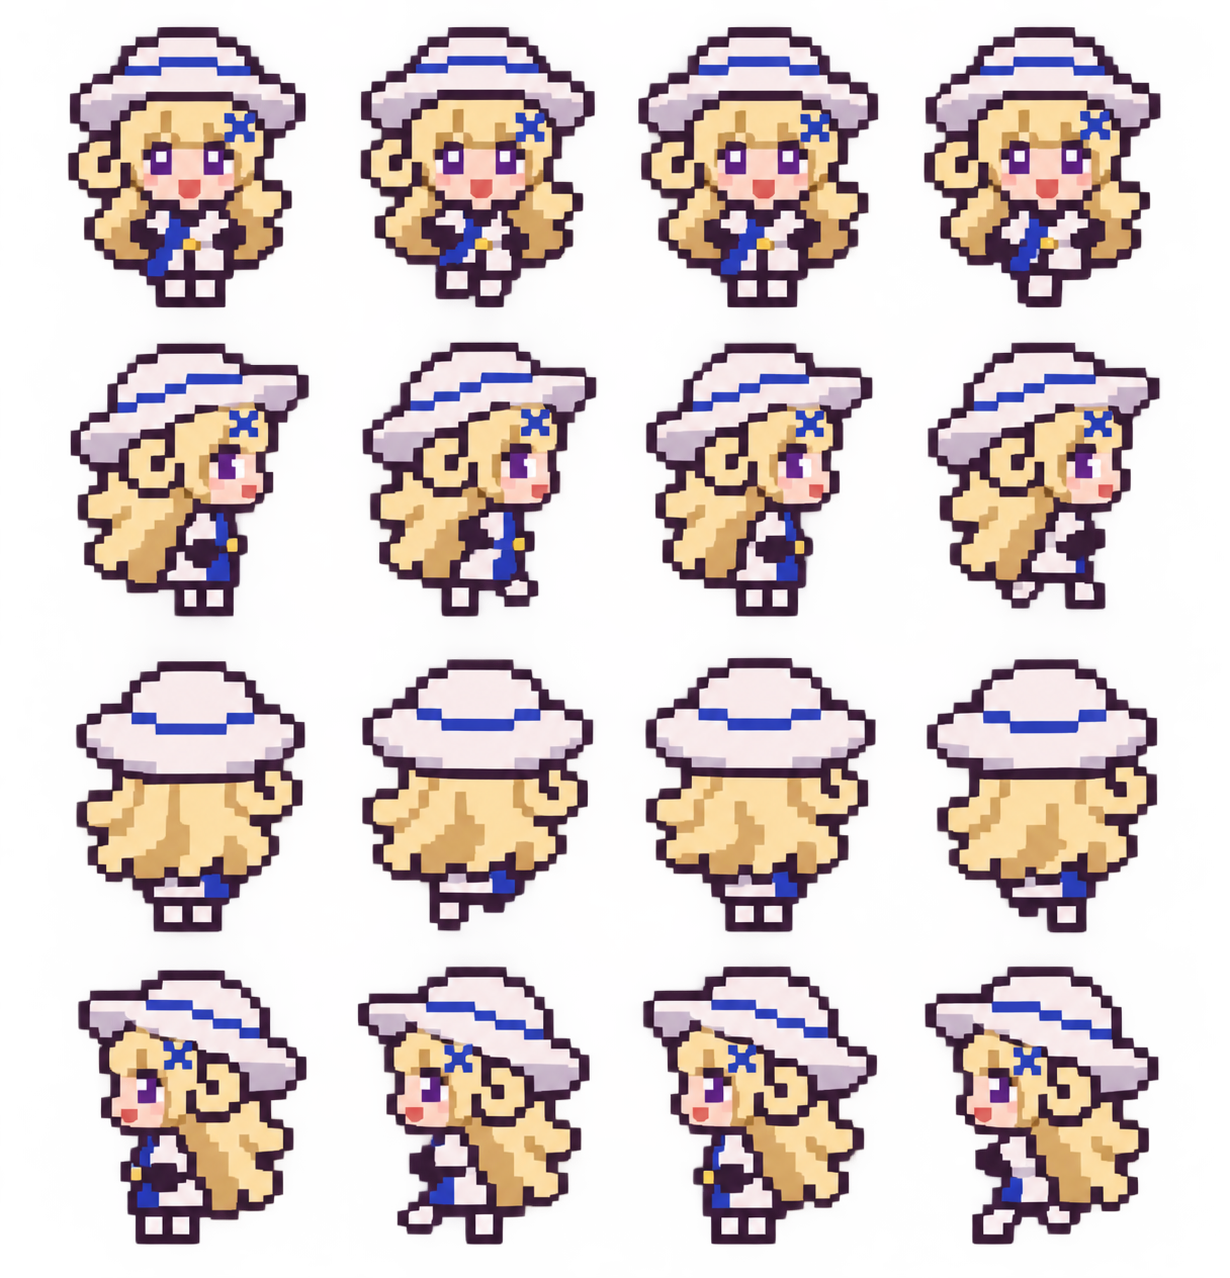
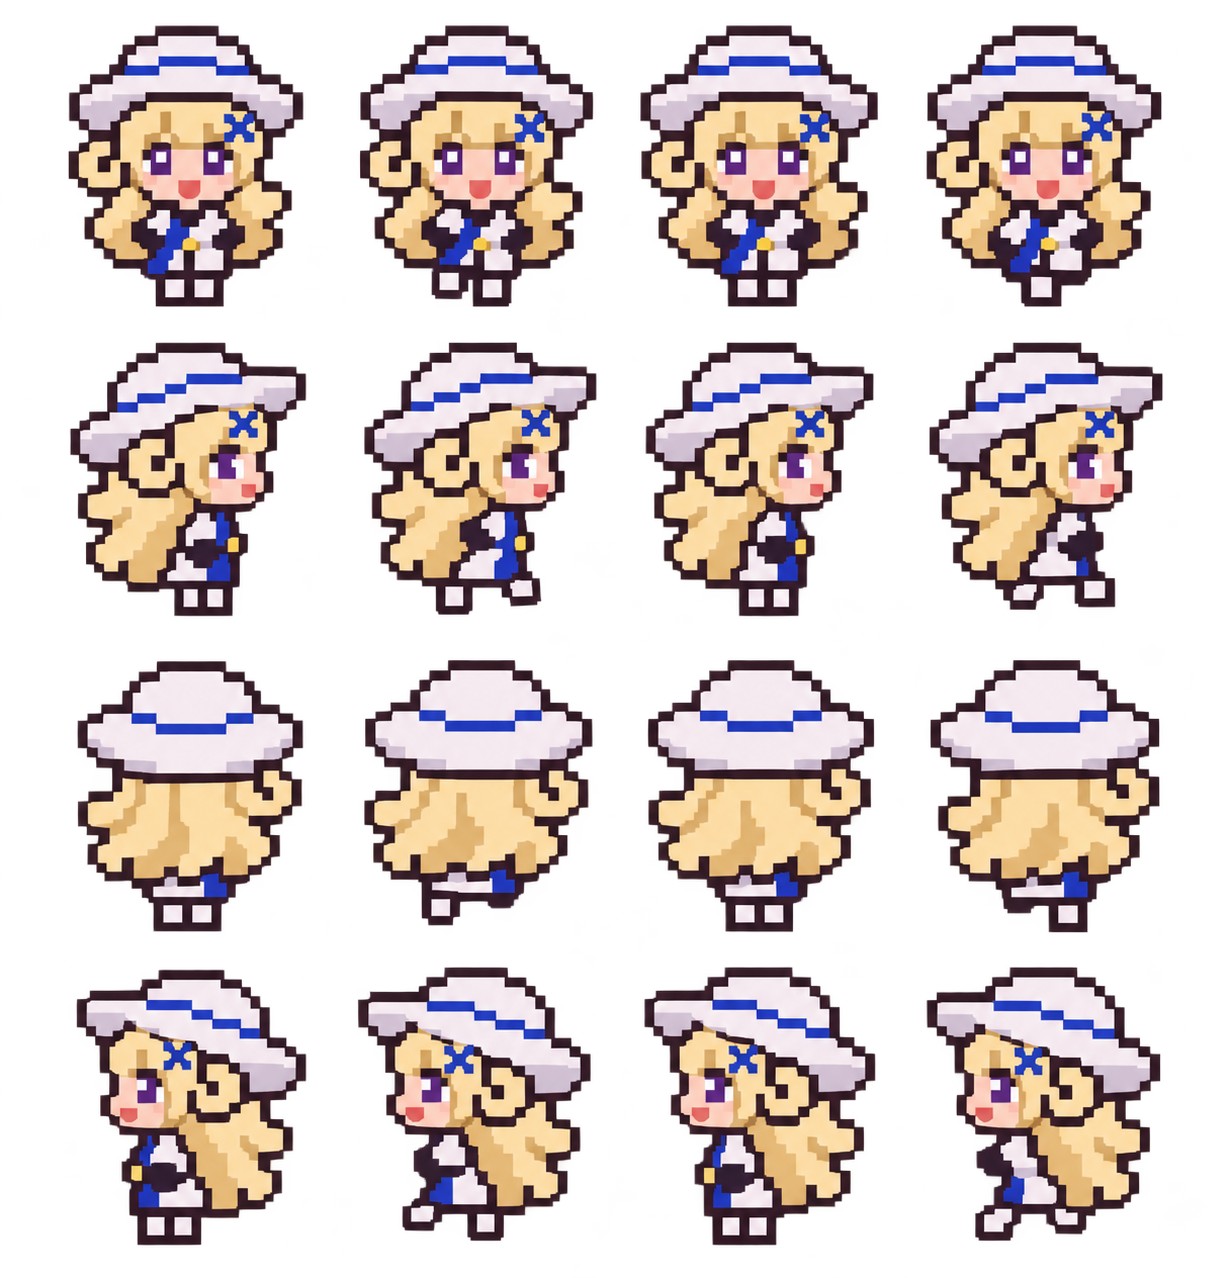
fix: keep walk outlines stable with a shared upper body
Refresh both walk sheets, animate feet beneath a fixed directional upper body, and add frame stepping. AI-assisted by OpenAI Codex and OpenAI image generation.

diff --git a/preview.html b/preview.html
@@ -5,7 +5,7 @@
 <label>款式 <select id="variant"><option value="are">套装 1 · ARE</option><option value="dumpling">套装 2 · 团团</option><option value="off">关闭</option></select></label>
 <label>动作 <select id="sheet"><option value="walk">走路</option><option value="tools">挥重工具</option><option value="melee">挥武器</option><option value="crouch">蹲下 / 浇水</option><option value="fishing">钓鱼</option><option value="eat">吃喝</option><option value="misc">坐姿 / 表情</option></select></label>
 <label>方向 <select id="direction"><option value="0">正面</option><option value="1">右侧</option><option value="2">背面</option><option value="3">左侧</option></select></label>
-<button id="play">暂停</button><p id="status" role="status">加载中…</p><div style="overflow-x:auto"><canvas id="view" width="480" height="680" aria-label="动画与所有源帧"></canvas></div>
+<button id="play">暂停</button><button id="step">下一帧</button><p id="status" role="status">加载中…</p><div style="overflow-x:auto"><canvas id="view" width="480" height="680" aria-label="动画与所有源帧"></canvas></div>
 <p>F9 循环：套装 1 → 套装 2 → 关闭；上方为所选方向的 6 倍整数放大，下方为全部帧的 2 倍整数放大。<a href="README.md">安装说明</a></p>
 <script>
 const layouts={walk:[4,4],tools:[4,3],melee:[4,3],crouch:[4,3],fishing:[3,3],eat:[6,1],misc:[4,2]};
@@ -15,7 +15,7 @@ let frames=[],cols=4,rows=4,playing=true,serial=0;
 function resizeDisplay(){const dpr=window.devicePixelRatio||1;canvas.width=Math.round(480*dpr);canvas.height=Math.round(680*dpr);ctx.setTransform(canvas.width/480,0,0,canvas.height/680,0,0);ctx.imageSmoothingEnabled=false}
 resizeDisplay();window.addEventListener('resize',resizeDisplay);
 function height(name,r,c){return name==='crouch'&&c<2||name==='tools'&&c===2?23:name==='misc'&&r===0?(c===3?12:22):28}
-async function load(){const ticket=++serial;frames=[];if(v.value==='off'){status.textContent='外观已关闭：游戏中恢复原版农夫（此预览不含原版素材）';return}status.textContent='加载中…';try{
+async function load(){const ticket=++serial;last=0;frames=[];if(v.value==='off'){status.textContent='外观已关闭：游戏中恢复原版农夫（此预览不含原版素材）';return}status.textContent='加载中…';try{
 const name=s.value,image=new Image();image.src=`PhoebeFarmer/assets/${v.value}/${name}.png`;const response=await fetch(`PhoebeFarmer/assets/${v.value}/frames.json`);if(!response.ok)throw Error('缺少帧位置文件');const bounds=(await response.json())[name];await image.decode();if(ticket!==serial)return;[cols,rows]=layouts[name];
 const off=document.createElement('canvas');off.width=image.width;off.height=image.height;const oc=off.getContext('2d',{willReadFrequently:true});oc.drawImage(image,0,0);const p=oc.getImageData(0,0,off.width,off.height).data;
 for(let r=0;r<rows;r++)for(let c=0;c<cols;c++){
@@ -28,6 +28,7 @@ if(n<8)continue;let winner=0;votes.forEach((n,k)=>{if(n>votes[winner])winner=k})
 }fc.putImageData(data,0,0);frames.push(f);
 }status.textContent=`${v.options[v.selectedIndex].text} · ${rows} 行 × ${cols} 帧 · 已载入`;
 }catch(e){status.textContent='无法载入贴图：'+e.message+'。请通过本地 HTTP 服务打开此页面。'}}
-let last=0;function draw(time){if(playing)last=time;ctx.clearRect(0,0,480,680);ctx.imageSmoothingEnabled=false;const r=Math.min(rows-1,Number(document.querySelector('#direction').value)),f=frames[r*cols+Math.floor(last/180)%cols];if(f)ctx.drawImage(f,120,10,240,240);frames.forEach((f,i)=>ctx.drawImage(f,40+i%4*100,290+Math.floor(i/4)*90,80,80));requestAnimationFrame(draw)}
-v.onchange=s.onchange=load;document.querySelector('#play').onclick=e=>{playing=!playing;e.target.textContent=playing?'暂停':'播放'};window.addEventListener('keydown',e=>{if(e.key==='F9'){e.preventDefault();if(e.repeat)return;v.value=v.value==='are'?'dumpling':v.value==='dumpling'?'off':'are';load()}});load();requestAnimationFrame(draw);
+function drawFrame(i,x,y,size){const frame=frames[i];if(!frame)return;const unit=size/40;if(s.value==='walk'){ctx.drawImage(frames[Math.floor(i/cols)*cols],0,0,40,34,x,y,size,34*unit);ctx.drawImage(frame,0,34,40,6,x,y+34*unit,size,6*unit)}else ctx.drawImage(frame,x,y,size,size)}
+let last=0,previousTime=0;function draw(time){if(playing)last+=previousTime?Math.min(time-previousTime,100):0;previousTime=time;ctx.clearRect(0,0,480,680);ctx.imageSmoothingEnabled=false;const r=Math.min(rows-1,Number(document.querySelector('#direction').value)),f=frames[r*cols+Math.floor(last/180)%cols];if(f)drawFrame(r*cols+Math.floor(last/180)%cols,120,10,240);frames.forEach((f,i)=>drawFrame(i,40+i%4*100,290+Math.floor(i/4)*90,80));requestAnimationFrame(draw)}
+v.onchange=s.onchange=load;document.querySelector('#play').onclick=e=>{playing=!playing;e.target.textContent=playing?'暂停':'播放'};document.querySelector('#step').onclick=()=>{playing=false;document.querySelector('#play').textContent='播放';last=(Math.floor(last/180)+1)*180};window.addEventListener('keydown',e=>{if(e.key==='F9'){e.preventDefault();if(e.repeat)return;v.value=v.value==='are'?'dumpling':v.value==='dumpling'?'off':'are';load()}});load();requestAnimationFrame(draw);
 </script></html>

diff --git a/PhoebeFarmer/ModEntry.cs b/PhoebeFarmer/ModEntry.cs
@@ -209,9 +209,23 @@ namespace PhoebeFarmer
 
             // 原版身体是 16x32；我们的格子水平居中、脚底对齐到同一位置
             var ourOrigin = origin + new Vector2((w - 16) / 2f, h - 32);
-            b.Draw(texture, position + origin + offset, src, overrideColor, rotation, ourOrigin, 4f * scale,
-                pose.Flip ? SpriteEffects.FlipHorizontally : SpriteEffects.None,
-                FarmerRenderer.GetLayerDepth(layerDepth, FarmerRenderer.FarmerSpriteLayers.Base));
+            var effects = pose.Flip ? SpriteEffects.FlipHorizontally : SpriteEffects.None;
+            float depth = FarmerRenderer.GetLayerDepth(layerDepth, FarmerRenderer.FarmerSpriteLayers.Base);
+            if (pose.Sheet == Sheet.Walk)
+            {
+                // Reuse the neutral upper body; only the bottom six pixels animate while walking.
+                int upperHeight = Math.Min(34, src.Height);
+                var upper = new Rectangle(0, src.Y, w, upperHeight);
+                b.Draw(texture, position + origin + offset, upper, overrideColor, rotation, ourOrigin, 4f * scale, effects, depth);
+                if (src.Height > upperHeight)
+                {
+                    var feet = new Rectangle(src.X, src.Y + upperHeight, w, src.Height - upperHeight);
+                    b.Draw(texture, position + origin + offset, feet, overrideColor, rotation,
+                        ourOrigin - new Vector2(0, upperHeight), 4f * scale, effects, depth);
+                }
+            }
+            else
+                b.Draw(texture, position + origin + offset, src, overrideColor, rotation, ourOrigin, 4f * scale, effects, depth);
         }
 
         /// <summary>走路/站立：走路表有单独的朝左一行，不用镜像。</summary>

diff --git a/README.md b/README.md
@@ -3,13 +3,13 @@
 将《星露谷物语》的玩家外观替换为菲比，并在 **03 ARE 款**与 **01 团团款**之间切换。
 基于 [Darian 的 Whale Farmer](https://github.com/Darianliu23/stardew-deepseek-whale-maid-player-sprite) 改造。
 
-**0.1.2 是待实机验收的预发布版本。** 使用公开参考程序集编译；开发机器没有安装游戏。
+**0.1.3 是待实机验收的预发布版本。** 使用公开参考程序集编译；开发机器没有安装游戏。
 编译通过不代表已验证实际游戏中的动画、工具对位或模组兼容性。
 
 ## 安装
 
 1. 准备 PC 版 Stardew Valley **1.6.15** 和 **SMAPI 4.4.0 或更新版本**。
-2. 从本仓库 Releases 下载 `PhoebeFarmer-0.1.2.zip`。
+2. 从本仓库 Releases 下载 `PhoebeFarmer-0.1.3.zip`。
 3. 将 ZIP 内的 `PhoebeFarmer` 文件夹解压到游戏的 `Mods` 目录。
    路径应为 `Mods/PhoebeFarmer/manifest.json`，不要再多套一层文件夹。
 4. 通过 SMAPI 启动游戏，进入存档后使用快捷键。
@@ -55,7 +55,8 @@
 保留主色块并归一到 40×40 像素帧，脚底对齐；站立角色高约 28 像素。
 取样不使用颜色平均混合，避免五官与描边混成灰色。
 同方向的走路帧共用缩放比例，减少逐帧拉伸导致的五官闪动；网页画布适配屏幕像素密度。
-静态动作由原版农夫帧号驱动，走路使用四帧循环。
+走路采用固定上身加四帧脚步：同方向的帽子、脸、头发与躯干复用站姿，上身不再逐帧切换。
+这样减少描边跳变，但上身摆动更少；其他动作仍由原版农夫帧号驱动。
 
 - AI 生成姿态可能有细节漂移；未承诺逐帧手工像素精修。
 - 左向动作沿用上游的右向镜像，蓝色披带和发饰在这些动作里也会翻转；走路有独立左向帧。
@@ -73,7 +74,7 @@
 ./build.ps1
 ```
 
-脚本获取公开的编译专用参考程序集，运行无图形环境的几何/切换检查，编译并输出 `dist/PhoebeFarmer-0.1.2.zip`。
+脚本获取公开的编译专用参考程序集，运行无图形环境的几何/切换检查，编译并输出 `dist/PhoebeFarmer-0.1.3.zip`。
 参考程序集仅用于编译，不可用于运行游戏，也不会打入安装包。
 已有游戏和 SMAPI 时可指定：
 
@@ -90,7 +91,7 @@ python tests/check_assets.py
 修改素材后运行 `python tests/check_assets.py --write-layout` 更新逐帧边界。
 本地动画预览：在仓库根目录运行 `python -m http.server 8765 --bind 127.0.0.1`，
 浏览器打开 `http://127.0.0.1:8765/preview.html`。预览使用整数倍显示，避免网页缩放插值。
-这里可以检查像素清晰度和帧顺序，不能验证 SMAPI 补丁或游戏工具对位。
+可按“下一帧”暂停并逐帧比较。这里可以检查像素清晰度和帧顺序，不能验证 SMAPI 补丁或游戏工具对位。
 
 ## 验收清单
 

diff --git a/art/walk-cleanup-0.1.3.md b/art/walk-cleanup-0.1.3.md
@@ -1,0 +1,7 @@
+# Walk cleanup 0.1.3
+
+Tool: built-in OpenAI image generation, edit mode, transparent background.
+Inputs/outputs: PhoebeFarmer/assets/are/walk.png and PhoebeFarmer/assets/dumpling/walk.png.
+Prompt brief used for both: preserve the existing Phoebe costume and design; create a transparent 4x4 walk sheet with front/right/back/left rows; duplicate the same head, hat, hair, face and costume shapes within each row; alternate shoes/lower legs, with only small hand motion; keep first/third neutral poses; use consistent pixel grid, contiguous flat colors, clean thin outlines, no floating pixels or changing highlights.
+
+Generated frames still vary slightly. The renderer therefore reuses the neutral upper 34 rows of each 40x40 directional frame and animates the bottom six rows. This deliberately reduces upper-body motion to prevent outline flicker. Other action sheets are unchanged.
